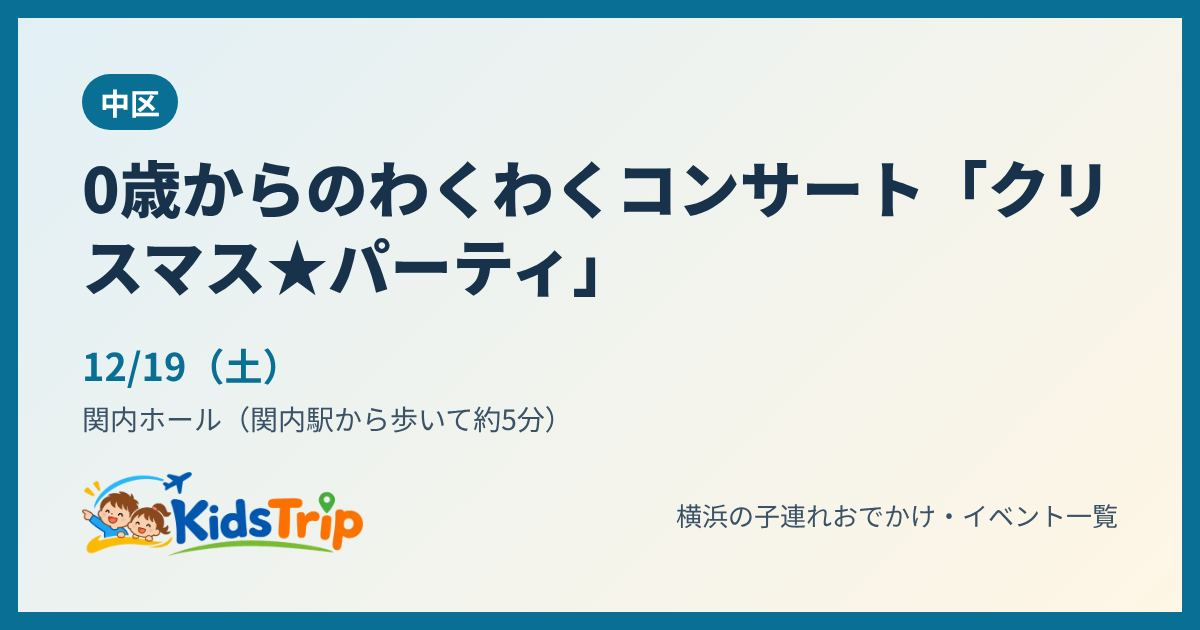
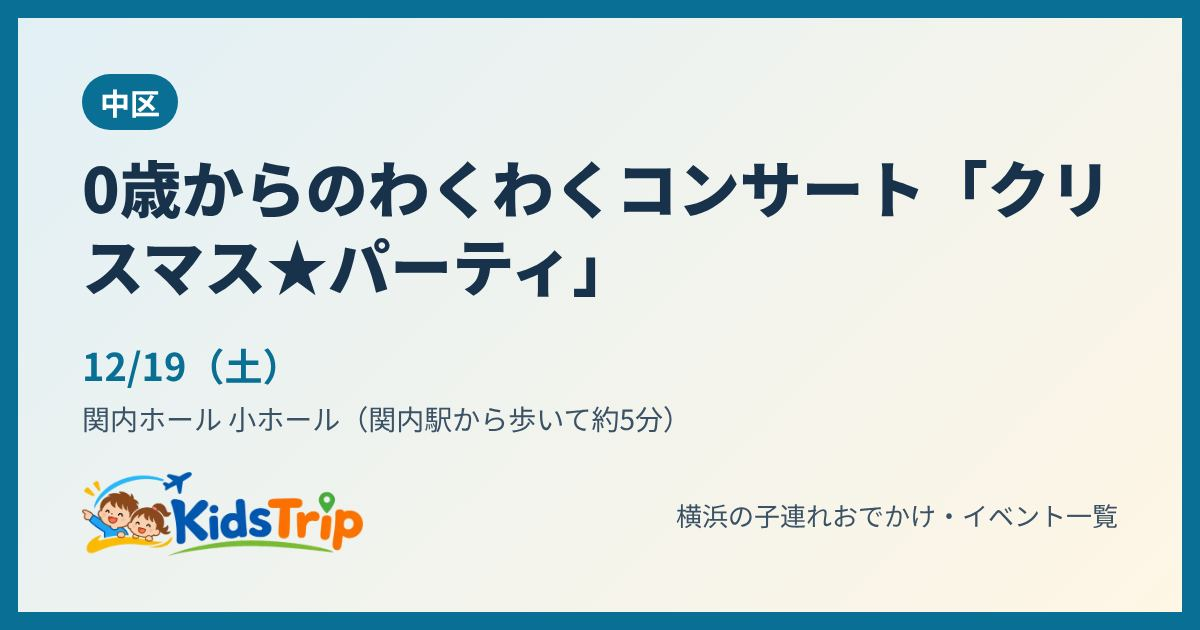
クリスマスコンサート3件：出典をいこーよから主催の公式に差しかえ（くるみわり人形は12/20で確定、チケットはLivePocket）、予約ページを追加
Claude-Session: https://claude.ai/code/session_014AtJ2g3ghW1boxsW7syVwL

Changed region(s): [[0.185, 0.6333, 0.555, 0.6937]]

diff --git a/event/10k4i/index.html b/event/10k4i/index.html
@@ -4,12 +4,12 @@
 <meta charset="utf-8">
 <meta name="viewport" content="width=device-width, initial-scale=1">
 <title>わくわく！クリスマスコンサート〜絵本で楽しむくるみわり人形（西区）｜横浜の子連れイベント｜KidsTrip</title>
-<meta name="description" content="12月20日(日)　横浜美術館 レクチャーホール（みなとみらい駅から歩いて約3分）。絵本と小さなオーケストラの生演奏で「くるみ割り人形」を楽しむ参加型コンサート。指揮に挑戦できる場面もある。">
+<meta name="description" content="12月20日(日)　横浜美術館 レクチャーホール（みなとみらい駅から歩いて約3分）。絵本と小さなオーケストラの生演奏で「くるみ割り人形」を楽しむ参加型コンサート。終わったあとに楽器にさわれる。">
 <link rel="canonical" href="https://kidstrip.jp/event/10k4i/">
 <meta property="og:type" content="article">
 <meta property="og:site_name" content="KidsTrip">
 <meta property="og:title" content="わくわく！クリスマスコンサート〜絵本で楽しむくるみわり人形（西区）｜横浜の子連れイベント｜KidsTrip">
-<meta property="og:description" content="12月20日(日)　横浜美術館 レクチャーホール（みなとみらい駅から歩いて約3分）。絵本と小さなオーケストラの生演奏で「くるみ割り人形」を楽しむ参加型コンサート。指揮に挑戦できる場面もある。">
+<meta property="og:description" content="12月20日(日)　横浜美術館 レクチャーホール（みなとみらい駅から歩いて約3分）。絵本と小さなオーケストラの生演奏で「くるみ割り人形」を楽しむ参加型コンサート。終わったあとに楽器にさわれる。">
 <meta property="og:url" content="https://kidstrip.jp/event/10k4i/">
 <meta property="og:image" content="https://kidstrip.jp/og/10k4i.jpg">
 <meta property="og:image:width" content="1200">
@@ -21,7 +21,7 @@
 <link rel="icon" href="../../img/favicon.png">
 <link rel="apple-touch-icon" href="../../img/apple-touch-icon.png">
 <script type="application/ld+json">{"@context": "https://schema.org", "@type": "BreadcrumbList", "itemListElement": [{"@type": "ListItem", "position": 1, "name": "トップ", "item": "https://kidstrip.jp/"}, {"@type": "ListItem", "position": 2, "name": "イベント", "item": "https://kidstrip.jp/"}, {"@type": "ListItem", "position": 3, "name": "わくわく！クリスマスコンサート〜絵本で楽しむくるみわり人形"}]}</script>
-<script type="application/ld+json">{"@context": "https://schema.org", "@type": "Event", "name": "わくわく！クリスマスコンサート〜絵本で楽しむくるみわり人形", "startDate": "2026-12-20T14:30:00+09:00", "endDate": "2026-12-20", "eventStatus": "https://schema.org/EventScheduled", "eventAttendanceMode": "https://schema.org/OfflineEventAttendanceMode", "location": {"@type": "Place", "name": "横浜美術館 レクチャーホール（みなとみらい駅から歩いて約3分）", "address": {"@type": "PostalAddress", "addressLocality": "横浜市西区", "addressRegion": "神奈川県", "addressCountry": "JP"}, "geo": {"@type": "GeoCoordinates", "latitude": 35.457, "longitude": 139.631}}, "description": "絵本と小さなオーケストラの生演奏で「くるみ割り人形」を楽しむ参加型コンサート。指揮に挑戦できる場面もある。", "image": ["https://kidstrip.jp/og/10k4i.jpg"], "url": "https://kidstrip.jp/event/10k4i/", "isAccessibleForFree": false, "inLanguage": "ja", "offers": {"@type": "Offer", "price": 500, "priceCurrency": "JPY", "url": "https://iko-yo.net/events/605146", "availability": "https://schema.org/InStock"}}</script>
+<script type="application/ld+json">{"@context": "https://schema.org", "@type": "Event", "name": "わくわく！クリスマスコンサート〜絵本で楽しむくるみわり人形", "startDate": "2026-12-20T14:30:00+09:00", "endDate": "2026-12-20", "eventStatus": "https://schema.org/EventScheduled", "eventAttendanceMode": "https://schema.org/OfflineEventAttendanceMode", "location": {"@type": "Place", "name": "横浜美術館 レクチャーホール（みなとみらい駅から歩いて約3分）", "address": {"@type": "PostalAddress", "addressLocality": "横浜市西区", "addressRegion": "神奈川県", "addressCountry": "JP"}, "geo": {"@type": "GeoCoordinates", "latitude": 35.457, "longitude": 139.631}}, "description": "絵本と小さなオーケストラの生演奏で「くるみ割り人形」を楽しむ参加型コンサート。終わったあとに楽器にさわれる。", "image": ["https://kidstrip.jp/og/10k4i.jpg"], "url": "https://kidstrip.jp/event/10k4i/", "isAccessibleForFree": false, "inLanguage": "ja", "offers": {"@type": "Offer", "price": 1000, "priceCurrency": "JPY", "url": "https://livepocket.jp/e/fxkve", "availability": "https://schema.org/InStock"}}</script>
 <style>
 .gkcmp th[scope=row]{white-space:nowrap}.gkcmp td{font-size:.92em}
 .gk{list-style:none;padding:0}.gk li{border:1px solid #e5e5e5;border-radius:10px;padding:10px 12px;margin:8px 0;line-height:1.7}.gk h3{margin:0 0 2px;font-size:1.02em}
@@ -54,20 +54,20 @@ footer{margin:28px 0 8px;font-size:12px;color:var(--muted)}
 <ul class="chips"><li>有料</li><li>0歳から</li><li>屋内</li><li>雨でもOK</li></ul>
 <table class="info">
 <tr><th>日にち</th><td>12月20日(日)</td></tr>
-<tr><th>時間</th><td>14:30〜15:15（14:00開場）。終演後に楽器にさわる体験（約30分）</td></tr>
+<tr><th>時間</th><td>14:30〜15:15（14:00開場）。15:15から楽器にさわる体験（約30分）</td></tr>
 <tr><th>場所</th><td>西区・横浜美術館 レクチャーホール（みなとみらい駅から歩いて約3分）</td></tr>
-<tr><th>料金</th><td>前売 大人（中学生以上）2,000円・子ども（2歳〜小学生）1,000円。0・1歳はひざ上なら無料。当日券は各500円高い</td></tr>
+<tr><th>料金</th><td>前売 大人（中学生以上）2,000円・子ども（小学生以下）1,000円。当日 大人2,500円・子ども1,500円。0・1歳はひざ上なら大人1人につき1人まで無料（席を使うなら子どもの券が必要）</td></tr>
 <tr><th>対象</th><td>0歳から</td></tr>
-<tr><th>予約</th><td>チケット事前購入（teket）・全席自由・定員200名</td></tr>
+<tr><th>予約</th><td>チケット購入（LivePocket）。当日券は席が残っているときだけ（LivePocketか会場の受付）</td></tr>
 <tr><th>雨の日</th><td>雨でもOK（屋内）</td></tr>
 </table>
-<p class="sum">絵本と小さなオーケストラの生演奏で「くるみ割り人形」を楽しむ参加型コンサート。指揮に挑戦できる場面もある。</p>
-<p class="tip">💡 開催日は情報が分かれています（掲載ページ内に12月20日と9月20日の両方の表記）。行く前に主催者 f Sounds（fsounds.jp）で確認を</p>
-<p class="small">情報の時点：2026年11月11日　出典：いこーよ（主催者 f Sounds の掲載情報）</p>
-<div class="btns"><a class="btn main" data-act="official" href="https://iko-yo.net/events/605146" target="_blank" rel="noopener">公式ページで確認</a>
+<p class="sum">絵本と小さなオーケストラの生演奏で「くるみ割り人形」を楽しむ参加型コンサート。終わったあとに楽器にさわれる。</p>
+<p class="tip">💡 開催日は主催者 f Sounds の公式で12/20(日)と確認（前に分かれていた9月の日付は、池袋で開かれた別の公演）</p>
+<p class="small">情報の時点：2026年11月23日　出典：f Sounds（主催）公式</p>
+<div class="btns"><a class="btn main" data-act="official" href="https://fsounds.jp/christmas-concert-2026-yokohama" target="_blank" rel="noopener">公式ページで確認</a><a class="btn" data-act="resv" href="https://livepocket.jp/e/fxkve" target="_blank" rel="noopener">予約ページへ</a>
 <a class="btn" href="/?e=10k4i">一覧で見る（行き方・近くのごはん）</a>
 <button type="button" class="btn" data-share="1">🔗 リンクを送る・コピー</button>
-<a class="btn line" href="https://line.me/R/share?text=%E3%80%90%E3%82%8F%E3%81%8F%E3%82%8F%E3%81%8F%EF%BC%81%E3%82%AF%E3%83%AA%E3%82%B9%E3%83%9E%E3%82%B9%E3%82%B3%E3%83%B3%E3%82%B5%E3%83%BC%E3%83%88%E3%80%9C%E7%B5%B5%E6%9C%AC%E3%81%A7%E6%A5%BD%E3%81%97%E3%82%80%E3%81%8F%E3%82%8B%E3%81%BF%E3%82%8F%E3%82%8A%E4%BA%BA%E5%BD%A2%E3%80%91%0A12%E6%9C%8820%E6%97%A5%28%E6%97%A5%29%E3%80%8014%3A30%E3%80%9C15%3A15%EF%BC%8814%3A00%E9%96%8B%E5%A0%B4%EF%BC%89%E3%80%82%E7%B5%82%E6%BC%94%E5%BE%8C%E3%81%AB%E6%A5%BD%E5%99%A8%E3%81%AB%E3%81%95%E3%82%8F%E3%82%8B%E4%BD%93%E9%A8%93%EF%BC%88%E7%B4%8430%E5%88%86%EF%BC%89%0A%E5%A0%B4%E6%89%80%EF%BC%9A%E8%A5%BF%E5%8C%BA%E3%83%BB%E6%A8%AA%E6%B5%9C%E7%BE%8E%E8%A1%93%E9%A4%A8%20%E3%83%AC%E3%82%AF%E3%83%81%E3%83%A3%E3%83%BC%E3%83%9B%E3%83%BC%E3%83%AB%EF%BC%88%E3%81%BF%E3%81%AA%E3%81%A8%E3%81%BF%E3%82%89%E3%81%84%E9%A7%85%E3%81%8B%E3%82%89%E6%AD%A9%E3%81%84%E3%81%A6%E7%B4%843%E5%88%86%EF%BC%89%0Ahttps%3A//kidstrip.jp/event/10k4i/" target="_blank" rel="noopener">LINEで送る</a></div>
+<a class="btn line" href="https://line.me/R/share?text=%E3%80%90%E3%82%8F%E3%81%8F%E3%82%8F%E3%81%8F%EF%BC%81%E3%82%AF%E3%83%AA%E3%82%B9%E3%83%9E%E3%82%B9%E3%82%B3%E3%83%B3%E3%82%B5%E3%83%BC%E3%83%88%E3%80%9C%E7%B5%B5%E6%9C%AC%E3%81%A7%E6%A5%BD%E3%81%97%E3%82%80%E3%81%8F%E3%82%8B%E3%81%BF%E3%82%8F%E3%82%8A%E4%BA%BA%E5%BD%A2%E3%80%91%0A12%E6%9C%8820%E6%97%A5%28%E6%97%A5%29%E3%80%8014%3A30%E3%80%9C15%3A15%EF%BC%8814%3A00%E9%96%8B%E5%A0%B4%EF%BC%89%E3%80%8215%3A15%E3%81%8B%E3%82%89%E6%A5%BD%E5%99%A8%E3%81%AB%E3%81%95%E3%82%8F%E3%82%8B%E4%BD%93%E9%A8%93%EF%BC%88%E7%B4%8430%E5%88%86%EF%BC%89%0A%E5%A0%B4%E6%89%80%EF%BC%9A%E8%A5%BF%E5%8C%BA%E3%83%BB%E6%A8%AA%E6%B5%9C%E7%BE%8E%E8%A1%93%E9%A4%A8%20%E3%83%AC%E3%82%AF%E3%83%81%E3%83%A3%E3%83%BC%E3%83%9B%E3%83%BC%E3%83%AB%EF%BC%88%E3%81%BF%E3%81%AA%E3%81%A8%E3%81%BF%E3%82%89%E3%81%84%E9%A7%85%E3%81%8B%E3%82%89%E6%AD%A9%E3%81%84%E3%81%A6%E7%B4%843%E5%88%86%EF%BC%89%0Ahttps%3A//kidstrip.jp/event/10k4i/" target="_blank" rel="noopener">LINEで送る</a></div>
 </article>
 <h2>歩いて10分以内のおむつ替え・授乳室・お湯</h2><table class="bm"><thead><tr><th>場所</th><th>おむつ替え</th><th>授乳室</th><th>お湯</th><th>レンジ</th></tr></thead><tbody><tr><th scope="row"><a href="/spot/if6r24/">横浜美術館</a></th><td class="y">○</td><td class="y">○</td><td class="y">○</td><td class="u">？</td></tr><tr><th scope="row"><a href="/spot/4tc2jy/">横浜みなとみらいホール</a></th><td class="y">○</td><td class="y">○</td><td class="y">○</td><td class="u">？</td></tr><tr><th scope="row"><a href="/spot/1n4x9nx/">MARK IS みなとみらい</a></th><td class="y">○</td><td class="y">○</td><td class="y">○</td><td class="y">○</td></tr><tr><th scope="row"><a href="/spot/18ge06x/">横浜ランドマークプラザ</a></th><td class="y">○</td><td class="y">○</td><td class="y">○</td><td class="y">○</td></tr><tr><th scope="row"><a href="/spot/csr15z/">クイーンズスクエア横浜</a></th><td class="y">○</td><td class="y">○</td><td class="u">？</td><td class="u">？</td></tr><tr><th scope="row"><a href="/spot/dlyuk8/">みなとみらい東急スクエア</a></th><td class="y">○</td><td class="y">○</td><td class="y">○</td><td class="y">○</td></tr></tbody></table><p class="legend">○ あり　× なし　？ 調べた範囲で確認できず</p>
 <h2>行き方のめやす</h2><ul class="links"><li>🚃 最寄り 桜木町駅（JR京浜東北線）：歩いて約5分・エレベーターあり・段差なし</li><li>🚃 みなとみらい駅（みなとみらい線）・エレベーターあり</li><li>🅿 駐車場4か所（MARK IS みなとみらい駐車場など・混みやすい）　🚲 みなとみらい駅自転車駐車場（約2分・1日100円・日曜祝日と年末年始は無料）ほか3か所</li></ul>

diff --git a/event/xinpqm/index.html b/event/xinpqm/index.html
@@ -4,12 +4,12 @@
 <meta charset="utf-8">
 <meta name="viewport" content="width=device-width, initial-scale=1">
 <title>0歳からのわくわくコンサート「クリスマス★パーティ」（中区）｜横浜の子連れイベント｜KidsTrip</title>
-<meta name="description" content="12月19日(土)　関内ホール（関内駅から歩いて約5分）。ディズニーソングとクリスマスソング、クラシックを生演奏で楽しむ親子コンサート。泣いたら演奏中でも出入り自由。">
+<meta name="description" content="12月19日(土)　関内ホール 小ホール（関内駅から歩いて約5分）。公式の題名は「わくわくファミリーコンサート クリスマス★パーティ【関内公演】」。ディズニーソングやクリスマスソングを生演奏で楽しむ親子コンサート。">
 <link rel="canonical" href="https://kidstrip.jp/event/xinpqm/">
 <meta property="og:type" content="article">
 <meta property="og:site_name" content="KidsTrip">
 <meta property="og:title" content="0歳からのわくわくコンサート「クリスマス★パーティ」（中区）｜横浜の子連れイベント｜KidsTrip">
-<meta property="og:description" content="12月19日(土)　関内ホール（関内駅から歩いて約5分）。ディズニーソングとクリスマスソング、クラシックを生演奏で楽しむ親子コンサート。泣いたら演奏中でも出入り自由。">
+<meta property="og:description" content="12月19日(土)　関内ホール 小ホール（関内駅から歩いて約5分）。公式の題名は「わくわくファミリーコンサート クリスマス★パーティ【関内公演】」。ディズニーソングやクリスマスソングを生演奏で楽しむ親子コンサート。">
 <meta property="og:url" content="https://kidstrip.jp/event/xinpqm/">
 <meta property="og:image" content="https://kidstrip.jp/og/xinpqm.jpg">
 <meta property="og:image:width" content="1200">
@@ -21,7 +21,7 @@
 <link rel="icon" href="../../img/favicon.png">
 <link rel="apple-touch-icon" href="../../img/apple-touch-icon.png">
 <script type="application/ld+json">{"@context": "https://schema.org", "@type": "BreadcrumbList", "itemListElement": [{"@type": "ListItem", "position": 1, "name": "トップ", "item": "https://kidstrip.jp/"}, {"@type": "ListItem", "position": 2, "name": "イベント", "item": "https://kidstrip.jp/"}, {"@type": "ListItem", "position": 3, "name": "0歳からのわくわくコンサート「クリスマス★パーティ」"}]}</script>
-<script type="application/ld+json">{"@context": "https://schema.org", "@type": "Event", "name": "0歳からのわくわくコンサート「クリスマス★パーティ」", "startDate": "2026-12-19T11:30:00+09:00", "endDate": "2026-12-19", "eventStatus": "https://schema.org/EventScheduled", "eventAttendanceMode": "https://schema.org/OfflineEventAttendanceMode", "location": {"@type": "Place", "name": "関内ホール（関内駅から歩いて約5分）", "address": {"@type": "PostalAddress", "addressLocality": "横浜市中区", "addressRegion": "神奈川県", "addressCountry": "JP"}, "geo": {"@type": "GeoCoordinates", "latitude": 35.444, "longitude": 139.634}}, "description": "ディズニーソングとクリスマスソング、クラシックを生演奏で楽しむ親子コンサート。泣いたら演奏中でも出入り自由。", "image": ["https://kidstrip.jp/og/xinpqm.jpg"], "url": "https://kidstrip.jp/event/xinpqm/", "isAccessibleForFree": false, "inLanguage": "ja", "offers": {"@type": "Offer", "price": 1500, "priceCurrency": "JPY", "url": "https://iko-yo.net/events/606045", "availability": "https://schema.org/InStock"}}</script>
+<script type="application/ld+json">{"@context": "https://schema.org", "@type": "Event", "name": "0歳からのわくわくコンサート「クリスマス★パーティ」", "startDate": "2026-12-19T11:30:00+09:00", "endDate": "2026-12-19", "eventStatus": "https://schema.org/EventScheduled", "eventAttendanceMode": "https://schema.org/OfflineEventAttendanceMode", "location": {"@type": "Place", "name": "関内ホール 小ホール（関内駅から歩いて約5分）", "address": {"@type": "PostalAddress", "addressLocality": "横浜市中区", "addressRegion": "神奈川県", "addressCountry": "JP"}, "geo": {"@type": "GeoCoordinates", "latitude": 35.444, "longitude": 139.634}}, "description": "公式の題名は「わくわくファミリーコンサート クリスマス★パーティ【関内公演】」。ディズニーソングやクリスマスソングを生演奏で楽しむ親子コンサート。", "image": ["https://kidstrip.jp/og/xinpqm.jpg"], "url": "https://kidstrip.jp/event/xinpqm/", "isAccessibleForFree": false, "inLanguage": "ja", "offers": {"@type": "Offer", "price": 1500, "priceCurrency": "JPY", "url": "https://eplus.jp/sf/detail/4606330001", "availability": "https://schema.org/InStock"}}</script>
 <style>
 .gkcmp th[scope=row]{white-space:nowrap}.gkcmp td{font-size:.92em}
 .gk{list-style:none;padding:0}.gk li{border:1px solid #e5e5e5;border-radius:10px;padding:10px 12px;margin:8px 0;line-height:1.7}.gk h3{margin:0 0 2px;font-size:1.02em}
@@ -54,20 +54,20 @@ footer{margin:28px 0 8px;font-size:12px;color:var(--muted)}
 <ul class="chips"><li>有料</li><li>0歳から</li><li>屋内</li><li>雨でもOK</li></ul>
 <table class="info">
 <tr><th>日にち</th><td>12月19日(土)</td></tr>
-<tr><th>時間</th><td>①11:30開演 ②14:30開演（各約60分）</td></tr>
-<tr><th>場所</th><td>中区・関内ホール（関内駅から歩いて約5分）</td></tr>
-<tr><th>料金</th><td>前売 大人2,700円・子ども（2歳〜中学生）1,500円。0・1歳はひざ上なら無料</td></tr>
+<tr><th>時間</th><td>①11:30開演（11:00開場） ②14:30開演（14:00開場）</td></tr>
+<tr><th>場所</th><td>中区・関内ホール 小ホール（関内駅から歩いて約5分）</td></tr>
+<tr><th>料金</th><td>前売 大人2,700円・子ども（2歳〜中学生）1,500円。当日 大人2,900円・子ども1,800円。0・1歳は席を使わなければ無料</td></tr>
 <tr><th>対象</th><td>0歳から</td></tr>
-<tr><th>予約</th><td>チケット購入（eプラス）・全席指定</td></tr>
+<tr><th>予約</th><td>チケット購入（イープラス、各回とも先着で発売中・12/18 23:59まで）・全席指定。当日券は席が残っているときだけ（イープラスは開演1時間前まで、会場は開場10分後から）</td></tr>
 <tr><th>雨の日</th><td>雨でもOK（屋内）</td></tr>
 </table>
-<p class="sum">ディズニーソングとクリスマスソング、クラシックを生演奏で楽しむ親子コンサート。泣いたら演奏中でも出入り自由。</p>
-<p class="tip">💡 当日券は大人2,900円・子ども1,800円</p>
-<p class="small">情報の時点：2026年11月11日　出典：いこーよ（主催者 ライズサーチの掲載情報）・eプラス</p>
-<div class="btns"><a class="btn main" data-act="official" href="https://iko-yo.net/events/606045" target="_blank" rel="noopener">公式ページで確認</a>
+<p class="sum">公式の題名は「わくわくファミリーコンサート クリスマス★パーティ【関内公演】」。ディズニーソングやクリスマスソングを生演奏で楽しむ親子コンサート。</p>
+<p class="tip">💡 全席指定なので、きょうだいで並んで座りたいときは早めに</p>
+<p class="small">情報の時点：2026年11月23日　出典：COCOHE（主催 株式会社ライズサーチ）公式</p>
+<div class="btns"><a class="btn main" data-act="official" href="https://cocohe.jp/christmasparty2026/" target="_blank" rel="noopener">公式ページで確認</a><a class="btn" data-act="resv" href="https://eplus.jp/sf/detail/4606330001" target="_blank" rel="noopener">予約ページへ</a>
 <a class="btn" href="/?e=xinpqm">一覧で見る（行き方・近くのごはん）</a>
 <button type="button" class="btn" data-share="1">🔗 リンクを送る・コピー</button>
-<a class="btn line" href="https://line.me/R/share?text=%E3%80%900%E6%AD%B3%E3%81%8B%E3%82%89%E3%81%AE%E3%82%8F%E3%81%8F%E3%82%8F%E3%81%8F%E3%82%B3%E3%83%B3%E3%82%B5%E3%83%BC%E3%83%88%E3%80%8C%E3%82%AF%E3%83%AA%E3%82%B9%E3%83%9E%E3%82%B9%E2%98%85%E3%83%91%E3%83%BC%E3%83%86%E3%82%A3%E3%80%8D%E3%80%91%0A12%E6%9C%8819%E6%97%A5%28%E5%9C%9F%29%E3%80%80%E2%91%A011%3A30%E9%96%8B%E6%BC%94%20%E2%91%A114%3A30%E9%96%8B%E6%BC%94%EF%BC%88%E5%90%84%E7%B4%8460%E5%88%86%EF%BC%89%0A%E5%A0%B4%E6%89%80%EF%BC%9A%E4%B8%AD%E5%8C%BA%E3%83%BB%E9%96%A2%E5%86%85%E3%83%9B%E3%83%BC%E3%83%AB%EF%BC%88%E9%96%A2%E5%86%85%E9%A7%85%E3%81%8B%E3%82%89%E6%AD%A9%E3%81%84%E3%81%A6%E7%B4%845%E5%88%86%EF%BC%89%0Ahttps%3A//kidstrip.jp/event/xinpqm/" target="_blank" rel="noopener">LINEで送る</a></div>
+<a class="btn line" href="https://line.me/R/share?text=%E3%80%900%E6%AD%B3%E3%81%8B%E3%82%89%E3%81%AE%E3%82%8F%E3%81%8F%E3%82%8F%E3%81%8F%E3%82%B3%E3%83%B3%E3%82%B5%E3%83%BC%E3%83%88%E3%80%8C%E3%82%AF%E3%83%AA%E3%82%B9%E3%83%9E%E3%82%B9%E2%98%85%E3%83%91%E3%83%BC%E3%83%86%E3%82%A3%E3%80%8D%E3%80%91%0A12%E6%9C%8819%E6%97%A5%28%E5%9C%9F%29%E3%80%80%E2%91%A011%3A30%E9%96%8B%E6%BC%94%EF%BC%8811%3A00%E9%96%8B%E5%A0%B4%EF%BC%89%20%E2%91%A114%3A30%E9%96%8B%E6%BC%94%EF%BC%8814%3A00%E9%96%8B%E5%A0%B4%EF%BC%89%0A%E5%A0%B4%E6%89%80%EF%BC%9A%E4%B8%AD%E5%8C%BA%E3%83%BB%E9%96%A2%E5%86%85%E3%83%9B%E3%83%BC%E3%83%AB%20%E5%B0%8F%E3%83%9B%E3%83%BC%E3%83%AB%EF%BC%88%E9%96%A2%E5%86%85%E9%A7%85%E3%81%8B%E3%82%89%E6%AD%A9%E3%81%84%E3%81%A6%E7%B4%845%E5%88%86%EF%BC%89%0Ahttps%3A//kidstrip.jp/event/xinpqm/" target="_blank" rel="noopener">LINEで送る</a></div>
 </article>
 <h2>歩いて10分以内のおむつ替え・授乳室・お湯</h2><table class="bm"><thead><tr><th>場所</th><th>おむつ替え</th><th>授乳室</th><th>お湯</th><th>レンジ</th></tr></thead><tbody><tr><th scope="row"><a href="/spot/d63d8s/">のんびりんこ</a></th><td class="y">○</td><td class="y">○</td><td class="y">○</td><td class="y">○</td></tr><tr><th scope="row"><a href="/spot/1rkdk6a/">BASEGATE横浜関内</a></th><td class="y">○</td><td class="y">○</td><td class="y">○</td><td class="u">？</td></tr></tbody></table><p class="legend">○ あり　× なし　？ 調べた範囲で確認できず</p>
 <h2>行き方のめやす</h2><ul class="links"><li>🚃 最寄り 関内駅（JR京浜東北線（根岸線））：歩いて約3分・エレベーターあり</li><li>🚃 日本大通り駅（みなとみらい線）：歩いて約5分・エレベーターあり</li><li>🅿 駐車場1か所（横浜市山下町地下駐車場など・混みやすい）</li></ul>

diff --git a/event/111mmkz/index.html b/event/111mmkz/index.html
@@ -4,12 +4,12 @@
 <meta charset="utf-8">
 <meta name="viewport" content="width=device-width, initial-scale=1">
 <title>0歳からのクリスマスコンサート「星の音楽絵本」（神奈川区）｜横浜の子連れイベント｜KidsTrip</title>
-<meta name="description" content="12月16日(水)　かなっくホール（東神奈川駅から歩いて1分）。ディズニー・ジブリ・童謡・クリスマスソングを物語仕立てで聞ける親子コンサート。赤ちゃんが泣いても大丈夫な公演。平日（水曜）の開催。">
+<meta name="description" content="12月16日(水)　神奈川区民文化センター かなっくホール（東神奈川駅から歩いて1分）。公式の題名は「0歳からのわくわく音楽コンサート 親子で楽しむ 星の音楽絵本2026」。赤ちゃんから入れる、物語仕立ての親子コンサート。平日（水曜）の開催">
 <link rel="canonical" href="https://kidstrip.jp/event/111mmkz/">
 <meta property="og:type" content="article">
 <meta property="og:site_name" content="KidsTrip">
 <meta property="og:title" content="0歳からのクリスマスコンサート「星の音楽絵本」（神奈川区）｜横浜の子連れイベント｜KidsTrip">
-<meta property="og:description" content="12月16日(水)　かなっくホール（東神奈川駅から歩いて1分）。ディズニー・ジブリ・童謡・クリスマスソングを物語仕立てで聞ける親子コンサート。赤ちゃんが泣いても大丈夫な公演。平日（水曜）の開催。">
+<meta property="og:description" content="12月16日(水)　神奈川区民文化センター かなっくホール（東神奈川駅から歩いて1分）。公式の題名は「0歳からのわくわく音楽コンサート 親子で楽しむ 星の音楽絵本2026」。赤ちゃんから入れる、物語仕立ての親子コンサート。平日（水曜）の開催">
 <meta property="og:url" content="https://kidstrip.jp/event/111mmkz/">
 <meta property="og:image" content="https://kidstrip.jp/og/111mmkz.jpg">
 <meta property="og:image:width" content="1200">
@@ -21,7 +21,7 @@
 <link rel="icon" href="../../img/favicon.png">
 <link rel="apple-touch-icon" href="../../img/apple-touch-icon.png">
 <script type="application/ld+json">{"@context": "https://schema.org", "@type": "BreadcrumbList", "itemListElement": [{"@type": "ListItem", "position": 1, "name": "トップ", "item": "https://kidstrip.jp/"}, {"@type": "ListItem", "position": 2, "name": "イベント", "item": "https://kidstrip.jp/"}, {"@type": "ListItem", "position": 3, "name": "0歳からのクリスマスコンサート「星の音楽絵本」"}]}</script>
-<script type="application/ld+json">{"@context": "https://schema.org", "@type": "Event", "name": "0歳からのクリスマスコンサート「星の音楽絵本」", "startDate": "2026-12-16T14:00:00+09:00", "endDate": "2026-12-16", "eventStatus": "https://schema.org/EventScheduled", "eventAttendanceMode": "https://schema.org/OfflineEventAttendanceMode", "location": {"@type": "Place", "name": "かなっくホール（東神奈川駅から歩いて1分）", "address": {"@type": "PostalAddress", "addressLocality": "横浜市神奈川区", "addressRegion": "神奈川県", "addressCountry": "JP"}, "geo": {"@type": "GeoCoordinates", "latitude": 35.4785, "longitude": 139.633}}, "description": "ディズニー・ジブリ・童謡・クリスマスソングを物語仕立てで聞ける親子コンサート。赤ちゃんが泣いても大丈夫な公演。平日（水曜）の開催。", "image": ["https://kidstrip.jp/og/111mmkz.jpg"], "url": "https://kidstrip.jp/event/111mmkz/", "isAccessibleForFree": false, "inLanguage": "ja", "offers": {"@type": "Offer", "price": 1000, "priceCurrency": "JPY", "url": "https://iko-yo.net/events/606049", "availability": "https://schema.org/InStock"}}</script>
+<script type="application/ld+json">{"@context": "https://schema.org", "@type": "Event", "name": "0歳からのクリスマスコンサート「星の音楽絵本」", "startDate": "2026-12-16T14:00:00+09:00", "endDate": "2026-12-16", "eventStatus": "https://schema.org/EventScheduled", "eventAttendanceMode": "https://schema.org/OfflineEventAttendanceMode", "location": {"@type": "Place", "name": "神奈川区民文化センター かなっくホール（東神奈川駅から歩いて1分）", "address": {"@type": "PostalAddress", "addressLocality": "横浜市神奈川区", "addressRegion": "神奈川県", "addressCountry": "JP"}, "geo": {"@type": "GeoCoordinates", "latitude": 35.4785, "longitude": 139.633}}, "description": "公式の題名は「0歳からのわくわく音楽コンサート 親子で楽しむ 星の音楽絵本2026」。赤ちゃんから入れる、物語仕立ての親子コンサート。平日（水曜）の開催。", "image": ["https://kidstrip.jp/og/111mmkz.jpg"], "url": "https://kidstrip.jp/event/111mmkz/", "isAccessibleForFree": false, "inLanguage": "ja"}</script>
 <style>
 .gkcmp th[scope=row]{white-space:nowrap}.gkcmp td{font-size:.92em}
 .gk{list-style:none;padding:0}.gk li{border:1px solid #e5e5e5;border-radius:10px;padding:10px 12px;margin:8px 0;line-height:1.7}.gk h3{margin:0 0 2px;font-size:1.02em}
@@ -51,23 +51,23 @@ footer{margin:28px 0 8px;font-size:12px;color:var(--muted)}
 <article class="card">
 <h1>0歳からのクリスマスコンサート「星の音楽絵本」</h1>
 
-<ul class="chips"><li>有料</li><li>0歳から</li><li>屋内</li><li>雨でもOK</li></ul>
+<ul class="chips"><li>有料</li><li>0歳から入れる</li><li>屋内</li><li>雨でもOK</li></ul>
 <table class="info">
 <tr><th>日にち</th><td>12月16日(水)</td></tr>
 <tr><th>時間</th><td>14:00開演（13:30開場・約60分）</td></tr>
-<tr><th>場所</th><td>神奈川区・かなっくホール（東神奈川駅から歩いて1分）</td></tr>
-<tr><th>料金</th><td>前売 大人2,000円・子ども（2歳〜中学生）1,000円。0・1歳はひざ上なら無料</td></tr>
-<tr><th>対象</th><td>0歳から</td></tr>
-<tr><th>予約</th><td>チケット購入（eプラス）・全席自由</td></tr>
+<tr><th>場所</th><td>神奈川区・神奈川区民文化センター かなっくホール（東神奈川駅から歩いて1分）</td></tr>
+<tr><th>料金</th><td>料金は公式ページに記載なし（イープラスで販売）</td></tr>
+<tr><th>対象</th><td>0歳から入れる</td></tr>
+<tr><th>予約</th><td>チケット制（イープラス）。限定300席。前売が優先で、当日券は開演1時間前までイープラス、そのあとは会場で現金かPayPay（受付は開場10分後から）</td></tr>
 <tr><th>雨の日</th><td>雨でもOK（屋内）</td></tr>
 </table>
-<p class="sum">ディズニー・ジブリ・童謡・クリスマスソングを物語仕立てで聞ける親子コンサート。赤ちゃんが泣いても大丈夫な公演。平日（水曜）の開催。</p>
-<p class="tip">💡 当日券は200円高い。前売が売り切れると当日券なし</p>
-<p class="small">情報の時点：2026年11月11日　出典：いこーよ（主催者 ライズサーチの掲載情報）</p>
-<div class="btns"><a class="btn main" data-act="official" href="https://iko-yo.net/events/606049" target="_blank" rel="noopener">公式ページで確認</a>
+<p class="sum">公式の題名は「0歳からのわくわく音楽コンサート 親子で楽しむ 星の音楽絵本2026」。赤ちゃんから入れる、物語仕立ての親子コンサート。平日（水曜）の開催。</p>
+<p class="tip">💡 子どもの料金・ひざ上の無料などは公式ページに記載なし。買う前にイープラスのページで確認を</p>
+<p class="small">情報の時点：2026年11月23日　出典：COCOHE（主催 株式会社ライズサーチ）公式</p>
+<div class="btns"><a class="btn main" data-act="official" href="https://cocohe.jp/star2026/" target="_blank" rel="noopener">公式ページで確認</a><a class="btn" data-act="resv" href="https://eplus.jp/sf/detail/4607260001-P0030001" target="_blank" rel="noopener">予約ページへ</a>
 <a class="btn" href="/?e=111mmkz">一覧で見る（行き方・近くのごはん）</a>
 <button type="button" class="btn" data-share="1">🔗 リンクを送る・コピー</button>
-<a class="btn line" href="https://line.me/R/share?text=%E3%80%900%E6%AD%B3%E3%81%8B%E3%82%89%E3%81%AE%E3%82%AF%E3%83%AA%E3%82%B9%E3%83%9E%E3%82%B9%E3%82%B3%E3%83%B3%E3%82%B5%E3%83%BC%E3%83%88%E3%80%8C%E6%98%9F%E3%81%AE%E9%9F%B3%E6%A5%BD%E7%B5%B5%E6%9C%AC%E3%80%8D%E3%80%91%0A12%E6%9C%8816%E6%97%A5%28%E6%B0%B4%29%E3%80%8014%3A00%E9%96%8B%E6%BC%94%EF%BC%8813%3A30%E9%96%8B%E5%A0%B4%E3%83%BB%E7%B4%8460%E5%88%86%EF%BC%89%0A%E5%A0%B4%E6%89%80%EF%BC%9A%E7%A5%9E%E5%A5%88%E5%B7%9D%E5%8C%BA%E3%83%BB%E3%81%8B%E3%81%AA%E3%81%A3%E3%81%8F%E3%83%9B%E3%83%BC%E3%83%AB%EF%BC%88%E6%9D%B1%E7%A5%9E%E5%A5%88%E5%B7%9D%E9%A7%85%E3%81%8B%E3%82%89%E6%AD%A9%E3%81%84%E3%81%A61%E5%88%86%EF%BC%89%0Ahttps%3A//kidstrip.jp/event/111mmkz/" target="_blank" rel="noopener">LINEで送る</a></div>
+<a class="btn line" href="https://line.me/R/share?text=%E3%80%900%E6%AD%B3%E3%81%8B%E3%82%89%E3%81%AE%E3%82%AF%E3%83%AA%E3%82%B9%E3%83%9E%E3%82%B9%E3%82%B3%E3%83%B3%E3%82%B5%E3%83%BC%E3%83%88%E3%80%8C%E6%98%9F%E3%81%AE%E9%9F%B3%E6%A5%BD%E7%B5%B5%E6%9C%AC%E3%80%8D%E3%80%91%0A12%E6%9C%8816%E6%97%A5%28%E6%B0%B4%29%E3%80%8014%3A00%E9%96%8B%E6%BC%94%EF%BC%8813%3A30%E9%96%8B%E5%A0%B4%E3%83%BB%E7%B4%8460%E5%88%86%EF%BC%89%0A%E5%A0%B4%E6%89%80%EF%BC%9A%E7%A5%9E%E5%A5%88%E5%B7%9D%E5%8C%BA%E3%83%BB%E7%A5%9E%E5%A5%88%E5%B7%9D%E5%8C%BA%E6%B0%91%E6%96%87%E5%8C%96%E3%82%BB%E3%83%B3%E3%82%BF%E3%83%BC%20%E3%81%8B%E3%81%AA%E3%81%A3%E3%81%8F%E3%83%9B%E3%83%BC%E3%83%AB%EF%BC%88%E6%9D%B1%E7%A5%9E%E5%A5%88%E5%B7%9D%E9%A7%85%E3%81%8B%E3%82%89%E6%AD%A9%E3%81%84%E3%81%A61%E5%88%86%EF%BC%89%0Ahttps%3A//kidstrip.jp/event/111mmkz/" target="_blank" rel="noopener">LINEで送る</a></div>
 </article>
 <h2>歩いて10分以内のおむつ替え・授乳室・お湯</h2><table class="bm"><thead><tr><th>場所</th><th>おむつ替え</th><th>授乳室</th><th>お湯</th><th>レンジ</th></tr></thead><tbody><tr><th scope="row"><a href="/spot/1ds32d3/">シァルプラット東神奈川</a></th><td class="y">○</td><td class="n">×</td><td class="u">？</td><td class="u">？</td></tr></tbody></table><p class="legend">○ あり　× なし　？ 調べた範囲で確認できず</p>
 

diff --git a/js/data.js b/js/data.js
@@ -1317,16 +1317,16 @@ EVENTS.push(
     resv:true, resvText:"事前申込（抽選）・各日20名。12月分の申込は11月7日9:30〜11月21日16:30。当選者にだけ連絡あり（11/28までに連絡がなければ落選）。同じ月に申し込めるのは1日だけ", age:[0,12], ageText:"子ども向け（小学生以下は中学生以上と一緒に申込）", kind:"limited", start:840, animal:true,
     sum:"ふだんは入れないキリン舎の裏側を見学できるツアー。抽選なので申込が必要。",
     tip:"申込締切は11月21日。野毛山動物園は入園無料なので、ツアーの前後にほかの動物も見られる", url:"https://www.hama-midorinokyokai.or.jp/zoo/nogeyama/details/post-11998.php", src:"横浜市緑の協会（野毛山動物園）公式", asof:"2026年11月15日" },
-  { t:"0歳からのクリスマスコンサート「星の音楽絵本」", days:["12/16"], time:"14:00開演（13:30開場・約60分）", ward:"神奈川区", venue:"かなっくホール（東神奈川駅から歩いて1分）",
-    price:"paid", priceText:"前売 大人2,000円・子ども（2歳〜中学生）1,000円。0・1歳はひざ上なら無料", place:"屋内", rain:"ok", rainText:"屋内",
-    resv:true, resvText:"チケット購入（eプラス）・全席自由", age:[0,15], ageText:"0歳から", kind:"limited", start:840,
-    sum:"ディズニー・ジブリ・童謡・クリスマスソングを物語仕立てで聞ける親子コンサート。赤ちゃんが泣いても大丈夫な公演。平日（水曜）の開催。",
-    tip:"当日券は200円高い。前売が売り切れると当日券なし", url:"https://iko-yo.net/events/606049", src:"いこーよ（主催者 ライズサーチの掲載情報）", asof:"2026年11月11日" },
-  { t:"0歳からのわくわくコンサート「クリスマス★パーティ」", days:["12/19"], time:"①11:30開演 ②14:30開演（各約60分）", ward:"中区", venue:"関内ホール（関内駅から歩いて約5分）",
-    price:"paid", priceText:"前売 大人2,700円・子ども（2歳〜中学生）1,500円。0・1歳はひざ上なら無料", place:"屋内", rain:"ok", rainText:"屋内",
-    resv:true, resvText:"チケット購入（eプラス）・全席指定", age:[0,15], ageText:"0歳から", kind:"limited", start:690,
-    sum:"ディズニーソングとクリスマスソング、クラシックを生演奏で楽しむ親子コンサート。泣いたら演奏中でも出入り自由。",
-    tip:"当日券は大人2,900円・子ども1,800円", url:"https://iko-yo.net/events/606045", src:"いこーよ（主催者 ライズサーチの掲載情報）・eプラス", asof:"2026年11月11日" },
+  { t:"0歳からのクリスマスコンサート「星の音楽絵本」", days:["12/16"], time:"14:00開演（13:30開場・約60分）", ward:"神奈川区", venue:"神奈川区民文化センター かなっくホール（東神奈川駅から歩いて1分）",
+    price:"paid", priceText:"料金は公式ページに記載なし（イープラスで販売）", place:"屋内", rain:"ok", rainText:"屋内",
+    resv:true, resvText:"チケット制（イープラス）。限定300席。前売が優先で、当日券は開演1時間前までイープラス、そのあとは会場で現金かPayPay（受付は開場10分後から）", age:[0,15], ageText:"0歳から入れる", kind:"limited", start:840,
+    sum:"公式の題名は「0歳からのわくわく音楽コンサート 親子で楽しむ 星の音楽絵本2026」。赤ちゃんから入れる、物語仕立ての親子コンサート。平日（水曜）の開催。",
+    tip:"子どもの料金・ひざ上の無料などは公式ページに記載なし。買う前にイープラスのページで確認を", url:"https://cocohe.jp/star2026/", resvUrl:"https://eplus.jp/sf/detail/4607260001-P0030001", src:"COCOHE（主催 株式会社ライズサーチ）公式", asof:"2026年11月23日" },
+  { t:"0歳からのわくわくコンサート「クリスマス★パーティ」", days:["12/19"], time:"①11:30開演（11:00開場） ②14:30開演（14:00開場）", ward:"中区", venue:"関内ホール 小ホール（関内駅から歩いて約5分）",
+    price:"paid", priceText:"前売 大人2,700円・子ども（2歳〜中学生）1,500円。当日 大人2,900円・子ども1,800円。0・1歳は席を使わなければ無料", place:"屋内", rain:"ok", rainText:"屋内",
+    resv:true, resvText:"チケット購入（イープラス、各回とも先着で発売中・12/18 23:59まで）・全席指定。当日券は席が残っているときだけ（イープラスは開演1時間前まで、会場は開場10分後から）", age:[0,15], ageText:"0歳から", kind:"limited", start:690,
+    sum:"公式の題名は「わくわくファミリーコンサート クリスマス★パーティ【関内公演】」。ディズニーソングやクリスマスソングを生演奏で楽しむ親子コンサート。",
+    tip:"全席指定なので、きょうだいで並んで座りたいときは早めに", url:"https://cocohe.jp/christmasparty2026/", resvUrl:"https://eplus.jp/sf/detail/4606330001", src:"COCOHE（主催 株式会社ライズサーチ）公式", asof:"2026年11月23日" },
   { t:"お城EXPO 2026", days:["12/19","12/20"], time:"19日 9:30〜17:30／20日 9:30〜17:00（最終入場は30分前）", ward:"西区", venue:"パシフィコ横浜 ノースほか（みなとみらい駅から歩いて約10分）",
     price:"paid", priceText:"入城券：一般 前売1,800円・当日2,500円、小中学生 前売500円・当日1,000円、未就学児は無料（厳選プログラムは別料金で、未就学児は入れない）", place:"屋内", rain:"ok", rainText:"屋内",
     resv:false, resvText:"チケットはローチケなどで販売・当日も購入可", age:[6,99], ageText:"小学生〜（お城・歴史好きの子に）", kind:"limited", start:570,
@@ -1339,11 +1339,11 @@ EVENTS.push(
     resv:true, resvText:"Peatixで申込・自由席・先着（定員になりしだい締切）", age:[4,12], ageText:"4歳以上（3歳以下は入場不可）", kind:"limited", start:930,
     sum:"アニメーションといっしょに楽しむ親子向けのコンサート。コミュニケーションや集団行動が苦手な子も参加しやすい形で開かれる。発達支援が必要な小学生向けのワークショップ付きの部（14:00〜）は11/8で申込終了。",
     tip:"無料で先着なので早めに申込を", url:"https://san-tatsu.jp/pressrelease/557132/", src:"横浜市芸術文化振興財団 発表", asof:"2026年11月11日" },
-  { t:"わくわく！クリスマスコンサート〜絵本で楽しむくるみわり人形", days:["12/20"], time:"14:30〜15:15（14:00開場）。終演後に楽器にさわる体験（約30分）", ward:"西区", venue:"横浜美術館 レクチャーホール（みなとみらい駅から歩いて約3分）",
-    price:"paid", priceText:"前売 大人（中学生以上）2,000円・子ども（2歳〜小学生）1,000円。0・1歳はひざ上なら無料。当日券は各500円高い", place:"屋内", rain:"ok", rainText:"屋内",
-    resv:true, resvText:"チケット事前購入（teket）・全席自由・定員200名", age:[0,12], ageText:"0歳から", kind:"limited", start:870,
-    sum:"絵本と小さなオーケストラの生演奏で「くるみ割り人形」を楽しむ参加型コンサート。指揮に挑戦できる場面もある。",
-    tip:"開催日は情報が分かれています（掲載ページ内に12月20日と9月20日の両方の表記）。行く前に主催者 f Sounds（fsounds.jp）で確認を", url:"https://iko-yo.net/events/605146", src:"いこーよ（主催者 f Sounds の掲載情報）", asof:"2026年11月11日" }
+  { t:"わくわく！クリスマスコンサート〜絵本で楽しむくるみわり人形", days:["12/20"], time:"14:30〜15:15（14:00開場）。15:15から楽器にさわる体験（約30分）", ward:"西区", venue:"横浜美術館 レクチャーホール（みなとみらい駅から歩いて約3分）",
+    price:"paid", priceText:"前売 大人（中学生以上）2,000円・子ども（小学生以下）1,000円。当日 大人2,500円・子ども1,500円。0・1歳はひざ上なら大人1人につき1人まで無料（席を使うなら子どもの券が必要）", place:"屋内", rain:"ok", rainText:"屋内",
+    resv:true, resvText:"チケット購入（LivePocket）。当日券は席が残っているときだけ（LivePocketか会場の受付）", age:[0,12], ageText:"0歳から", kind:"limited", start:870,
+    sum:"絵本と小さなオーケストラの生演奏で「くるみ割り人形」を楽しむ参加型コンサート。終わったあとに楽器にさわれる。",
+    tip:"開催日は主催者 f Sounds の公式で12/20(日)と確認（前に分かれていた9月の日付は、池袋で開かれた別の公演）", url:"https://fsounds.jp/christmas-concert-2026-yokohama", resvUrl:"https://livepocket.jp/e/fxkve", src:"f Sounds（主催）公式", asof:"2026年11月23日" }
 );
 EVENTS.push(
   { t:"サイエンス・ショウ「くるりん 宙がえり」（宇宙科学館）", days:["11/23","11/28","11/29"], time:"11:30・13:30（各約30分）。11/14・15はイベントのため終日なし、11/22は13:30の回なし", ward:"磯子区", venue:"はまぎん こども宇宙科学館（洋光台駅から歩いて約3分）",

diff --git a/index.html b/index.html
@@ -754,7 +754,7 @@ section[id], div[id="events"] { scroll-margin-top: 56px; }
   </footer>
 </div>
 
-<script src="js/data.js?v=63b385db78" defer></script>
+<script src="js/data.js?v=067add4033" defer></script>
 <script src="js/app.js?v=1e28e73a7b" defer></script>
 </body>
 </html>

diff --git a/tools/runs.md b/tools/runs.md
@@ -78,3 +78,4 @@
 | 2026-11-23 | 利用者との作業 | 08:11〜08:11 | 4 | みんなのインクルーシブスポーツ：泉区（11/28 10〜14時・今田遊水地・ふれあいフェスタ内）・青葉区（12/5 球技場無料開放と同時）・瀬谷区（12/6 ボッチャ大会、申込締切・体験コーナーあり）を利用者が送った公式の画面で更新 |
 | 2026-11-23 | 利用者との作業 | 10:41〜10:50 | 9 | 記録のスクリプト：学童・遊び場・前回の続きの記録を受け付けるように（これまで捨てていた）、まとめに学童・遊び場の欄 |
 | 2026-11-23 | 利用者との作業 | 11:16〜11:16 | 1 | トレッサ横浜のフードコートにウォーターサーバー（冷水・温水）を追加（利用者の情報） |
+| 2026-11-23 | 利用者との作業 | 11:41〜11:41 | 7 | 出典がいこーよだったクリスマスコンサート3件を主催の公式で確認して差しかえ（星の音楽絵本は料金が公式に記載なし、クリスマス★パーティは料金・席を確認、くるみわり人形は12/20で確定・チケットはLivePocket）。予約ページへのボタンも追加 |
